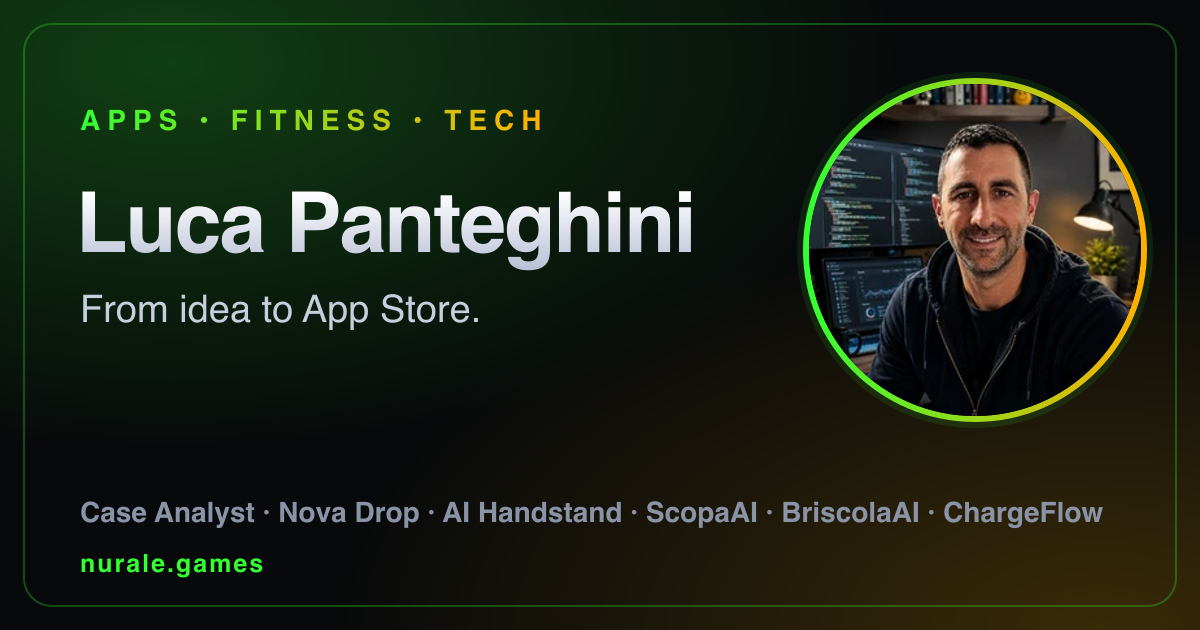
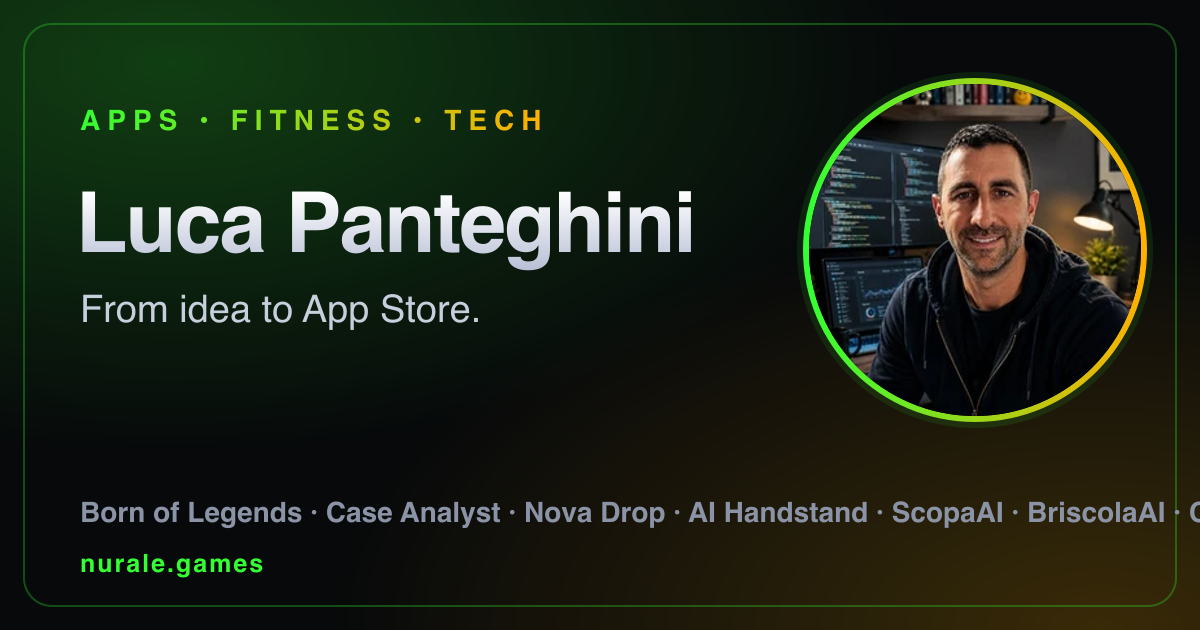
Born of Legends prima scheda: App Store, Google Play e sito, con «Disponibile dal 1° novembre» fino al lancio (availableFrom); sync per singola app

Changed region(s): [[0.0617, 0.7841, 1.0, 0.8444]]

diff --git a/src/components/ProductCard.tsx b/src/components/ProductCard.tsx
@@ -7,6 +7,7 @@ type Product = {
   id: string;
   name: string;
   status: string;
+  availableFrom?: string;
   category: { it: string; en: string };
   tagline: { it: string; en: string };
   accent: string;
@@ -17,6 +18,9 @@ type Product = {
 export default function ProductCard({ product, lang }: { product: Product; lang: Lang }) {
   const { name, accent, icon, category, tagline, links, status } = product;
   const comingSoon = status === 'coming_soon';
+  // `availableFrom` (YYYY-MM-DD): fino a quel giorno i link restano ma con la data di uscita.
+  const launch = product.availableFrom ? new Date(`${product.availableFrom}T00:00:00`) : null;
+  const upcoming = launch !== null && !comingSoon && Date.now() < launch.getTime();
 
   const ref = useRef<HTMLDivElement>(null);
   const mx = useMotionValue(0.5);
@@ -70,6 +74,15 @@ export default function ProductCard({ product, lang }: { product: Product; lang:
           <span className="card__cat">{category[lang]}</span>
           <h3 className="card__name">{name}</h3>
           <p className="card__tagline">{tagline[lang]}</p>
+
+          {upcoming && (
+            <p className="card__launch">
+              {ui[lang]['badge.from']}{' '}
+              {launch
+                .toLocaleDateString(lang === 'it' ? 'it-IT' : 'en-GB', { day: 'numeric', month: 'long' })
+                .replace(lang === 'it' && launch.getDate() === 1 ? /^1 / : /$^/, '1° ')}
+            </p>
+          )}
 
           <div className="card__links">
             {comingSoon && <span className="store-btn store-btn--soon">{ui[lang]['badge.soon']}</span>}

diff --git a/src/i18n/ui.ts b/src/i18n/ui.ts
@@ -13,6 +13,7 @@ export const ui = {
     'cta.steam': 'Wishlist su Steam',
     'cta.website': 'Sito',
     'badge.soon': 'Prossimamente',
+    'badge.from': 'Disponibile dal',
     'footer.rights': 'Tutti i diritti riservati.',
     'footer.contact': 'Contattami',
     'footer.privacy': 'Privacy',
@@ -36,6 +37,7 @@ export const ui = {
     'cta.steam': 'Wishlist on Steam',
     'cta.website': 'Website',
     'badge.soon': 'Coming soon',
+    'badge.from': 'Available from',
     'footer.rights': 'All rights reserved.',
     'footer.contact': 'Get in touch',
     'footer.privacy': 'Privacy',

diff --git a/src/styles/global.css b/src/styles/global.css
@@ -381,6 +381,13 @@ a {
   color: var(--text-dim);
 }
 
+.card__launch {
+  margin: -6px 0 12px;
+  font-size: 13px;
+  font-weight: 600;
+  color: var(--accent);
+}
+
 .card__links {
   display: flex;
   gap: 9px;

diff --git a/CLAUDE.md b/CLAUDE.md
@@ -31,7 +31,7 @@ Tutto il contenuto vive in 2 file = unica fonte di verità. **Aggiornare = modif
 Bilingue IT/EN con toggle (hook `src/hooks/useLang.ts`, stringhe `src/i18n/ui.ts`).
 
 ### App mostrate (ordine attuale)
-1. Case Analyst · 2. Nova Drop · 3. AI Handstand · 4. ScopaAI · 5. BriscolaAI
+1. Born of Legends (lancio 1/11/2026: `availableFrom` mostra «Disponibile dal 1° novembre» fino a quel giorno) · 2. Case Analyst · 3. Nova Drop · 4. AI Handstand · 5. ScopaAI · 6. BriscolaAI · 7. ChargeFlow
 ### Social
 TikTok (@panthe78) · LinkedIn · Email (Instagram/X predisposti ma `enabled:false`).
 
@@ -60,6 +60,7 @@ scelta del 2026-06-16). I nuovi sfondi sono montati da `Scene3D` in base al `mod
 
 - **Testi/app/social:** modifica `data/*.json`.
 - **Icone/screenshot/avatar:** `npm run sync` (legge `assetSources` e `avatarSource`, ottimizza in WebP in `public/assets/`).
+  ⚠ La sorgente di ChargeFlow non è più sul disco: il sync completo ne cancellerebbe gli asset. Per una sola app: `npm run sync -- <id>`.
 - Poi `git push` → Cloudflare ribuilda e pubblica da solo (~1 min).
 
 ## Hosting & deploy
